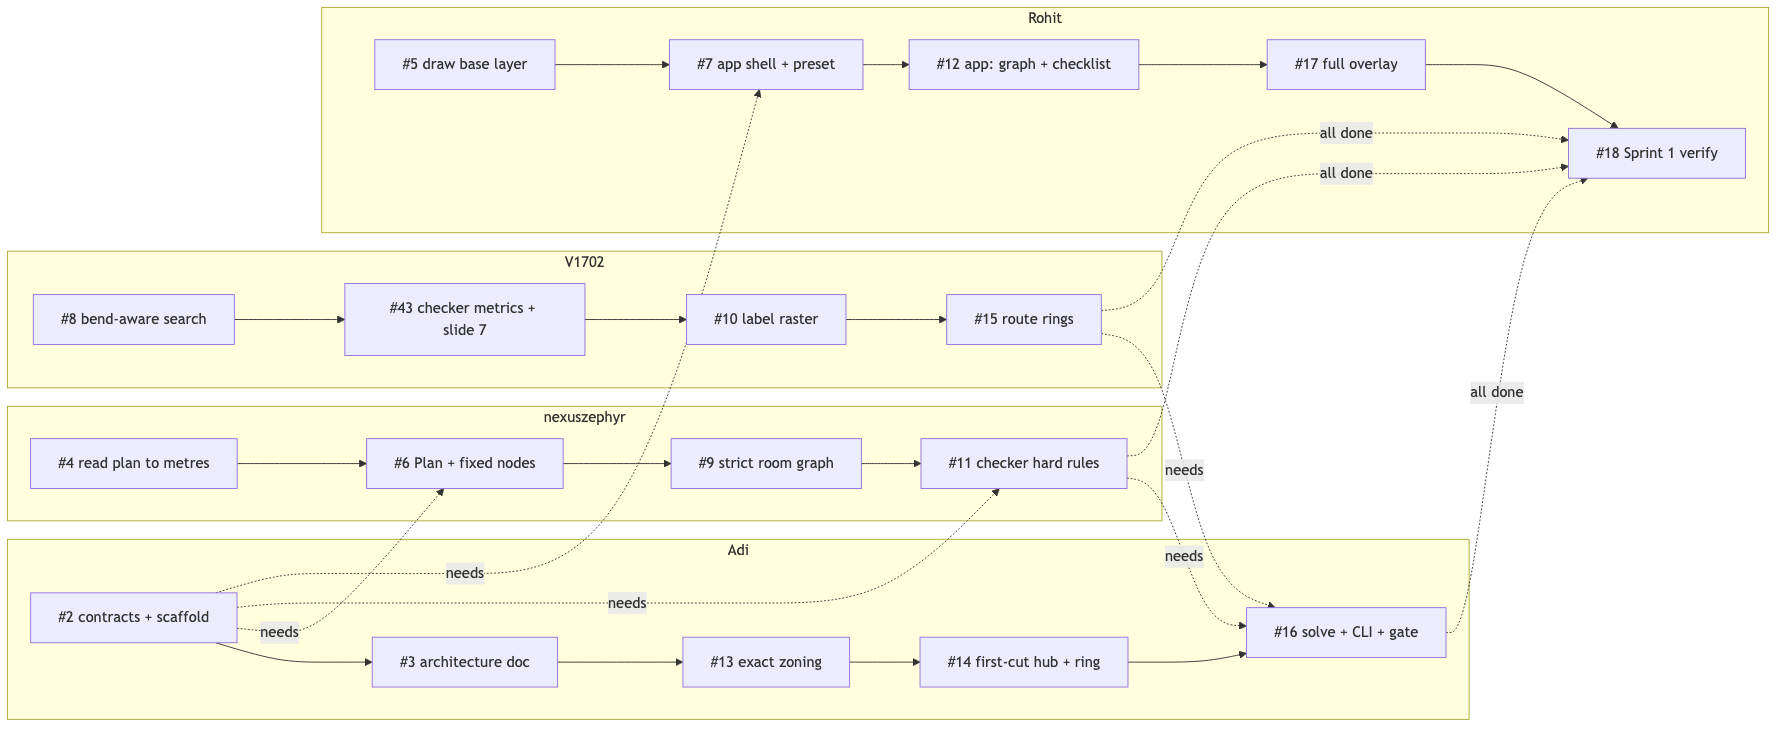
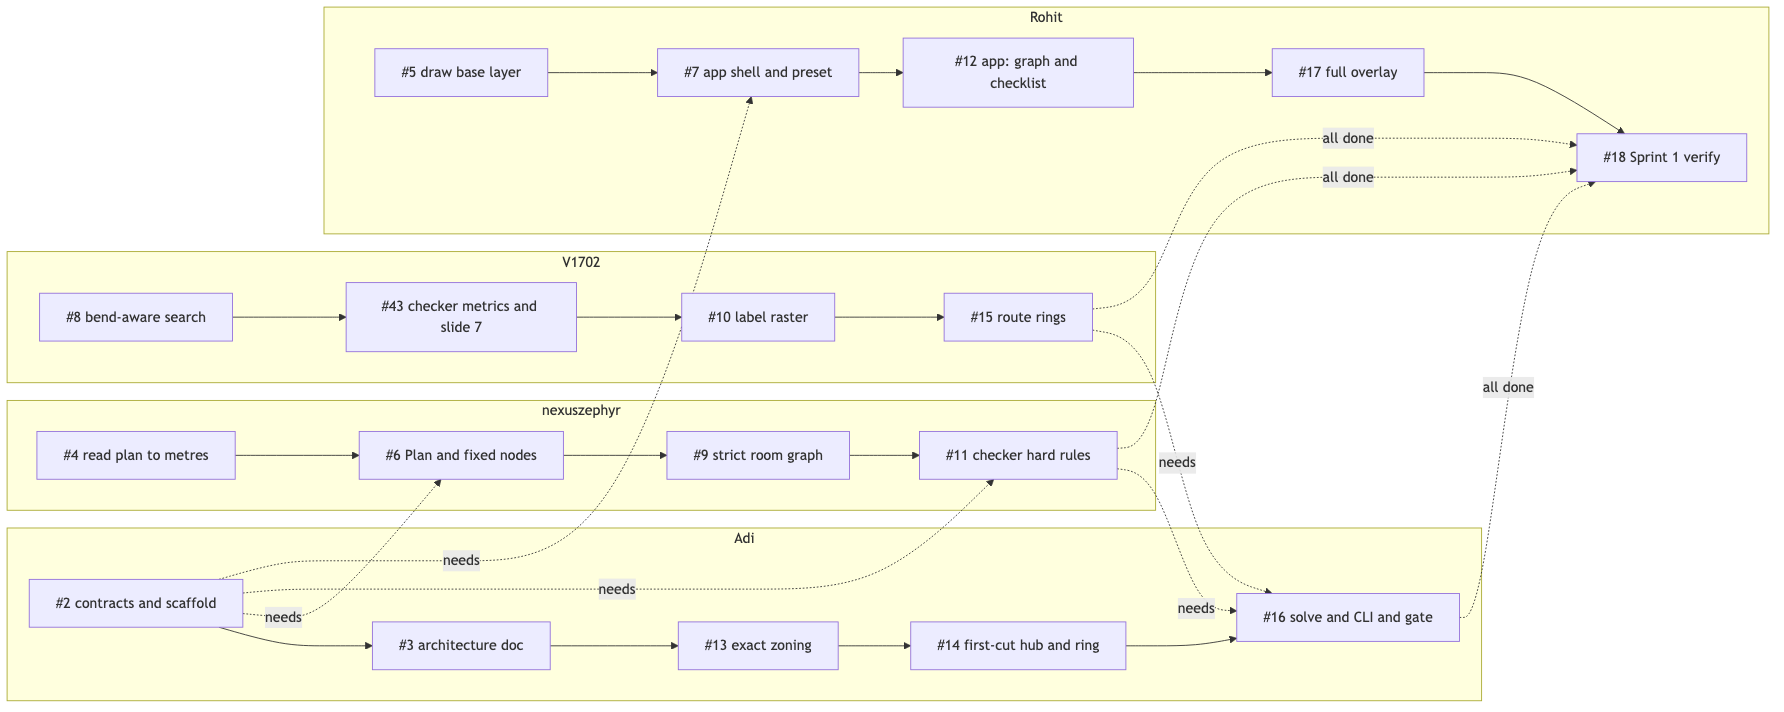
docs: GitHub-safe execution maps (quoted labels, #35; entity for #)
The lane maps used bare '#' at the start of node labels; they now use quoted
labels with mermaid's '#35;' entity and 'and' instead of '+'. Verified with
mermaid-cli 11.16.0, 10.9.1, 9.4.0 and 8.13.10 (exit 0, no syntax error,
'#2 contracts' decoded correctly); PNG fallbacks re-rendered.

diff --git a/docs/EXECUTION_PLAN.md b/docs/EXECUTION_PLAN.md
@@ -18,40 +18,40 @@ Solid arrows = this member's order; dashed arrows = waits for another member's m
 ```mermaid
 flowchart LR
     subgraph AdiS1 [Adi]
-        i2[#2 contracts + scaffold]
-        i3[#3 architecture doc]
-        i13[#13 exact zoning]
-        i14[#14 first-cut hub + ring]
-        i16[#16 solve + CLI + gate]
+        i2["#35;2 contracts and scaffold"]
+        i3["#35;3 architecture doc"]
+        i13["#35;13 exact zoning"]
+        i14["#35;14 first-cut hub and ring"]
+        i16["#35;16 solve and CLI and gate"]
         i2 --> i3
         i3 --> i13
         i13 --> i14
         i14 --> i16
     end
     subgraph nexuszephyrS1 [nexuszephyr]
-        i4[#4 read plan to metres]
-        i6[#6 Plan + fixed nodes]
-        i9[#9 strict room graph]
-        i11[#11 checker hard rules]
+        i4["#35;4 read plan to metres"]
+        i6["#35;6 Plan and fixed nodes"]
+        i9["#35;9 strict room graph"]
+        i11["#35;11 checker hard rules"]
         i4 --> i6
         i6 --> i9
         i9 --> i11
     end
     subgraph V1702S1 [V1702]
-        i8[#8 bend-aware search]
-        i43[#43 checker metrics + slide 7]
-        i10[#10 label raster]
-        i15[#15 route rings]
+        i8["#35;8 bend-aware search"]
+        i43["#35;43 checker metrics and slide 7"]
+        i10["#35;10 label raster"]
+        i15["#35;15 route rings"]
         i8 --> i43
         i43 --> i10
         i10 --> i15
     end
     subgraph RohitS1 [Rohit]
-        i5[#5 draw base layer]
-        i7[#7 app shell + preset]
-        i12[#12 app: graph + checklist]
-        i17[#17 full overlay]
-        i18[#18 Sprint 1 verify]
+        i5["#35;5 draw base layer"]
+        i7["#35;7 app shell and preset"]
+        i12["#35;12 app: graph and checklist"]
+        i17["#35;17 full overlay"]
+        i18["#35;18 Sprint 1 verify"]
         i5 --> i7
         i7 --> i12
         i12 --> i17
@@ -75,40 +75,40 @@ Sprint 1 must be finished and verified (#18) first.
 ```mermaid
 flowchart LR
     subgraph AdiS2 [Adi]
-        i28[#28 cap-20 what-if]
-        i20[#20 exact hub + ring]
-        i22[#22 rank + enumerate + fallback]
-        i35[#35 Sprint 2 verify]
+        i28["#35;28 cap-20 what-if"]
+        i20["#35;20 exact hub and ring"]
+        i22["#35;22 rank and enumerate and fallback"]
+        i35["#35;35 Sprint 2 verify"]
         i28 --> i20
         i20 --> i22
         i22 --> i35
     end
     subgraph nexuszephyrS2 [nexuszephyr]
-        i23[#23 infeasible + reported]
-        i32[#32 batch runner]
-        i31[#31 interior-window box]
-        i33[#33 leaderboard]
-        i34[#34 output-format doc]
+        i23["#35;23 infeasible and reported"]
+        i32["#35;32 batch runner"]
+        i31["#35;31 interior-window box"]
+        i33["#35;33 leaderboard"]
+        i34["#35;34 output-format doc"]
         i23 --> i32
         i32 --> i31
         i31 --> i33
         i33 --> i34
     end
     subgraph V1702S2 [V1702]
-        i19[#19 path cache]
-        i21[#21 J-aware routing]
-        i30[#30 what-if sidebar]
-        i27[#27 Pareto H vs J]
+        i19["#35;19 path cache"]
+        i21["#35;21 J-aware routing"]
+        i30["#35;30 what-if sidebar"]
+        i27["#35;27 Pareto H vs J"]
         i19 --> i21
         i21 --> i30
         i30 --> i27
     end
     subgraph RohitS2 [Rohit]
-        i25[#25 step-through]
-        i24[#24 optimality badge]
-        i44[#44 presentation export]
-        i26[#26 gallery + filters]
-        i29[#29 cap 5 vs 20]
+        i25["#35;25 step-through"]
+        i24["#35;24 optimality badge"]
+        i44["#35;44 presentation export"]
+        i26["#35;26 gallery and filters"]
+        i29["#35;29 cap 5 vs 20"]
         i25 --> i24
         i24 --> i44
         i44 --> i26
